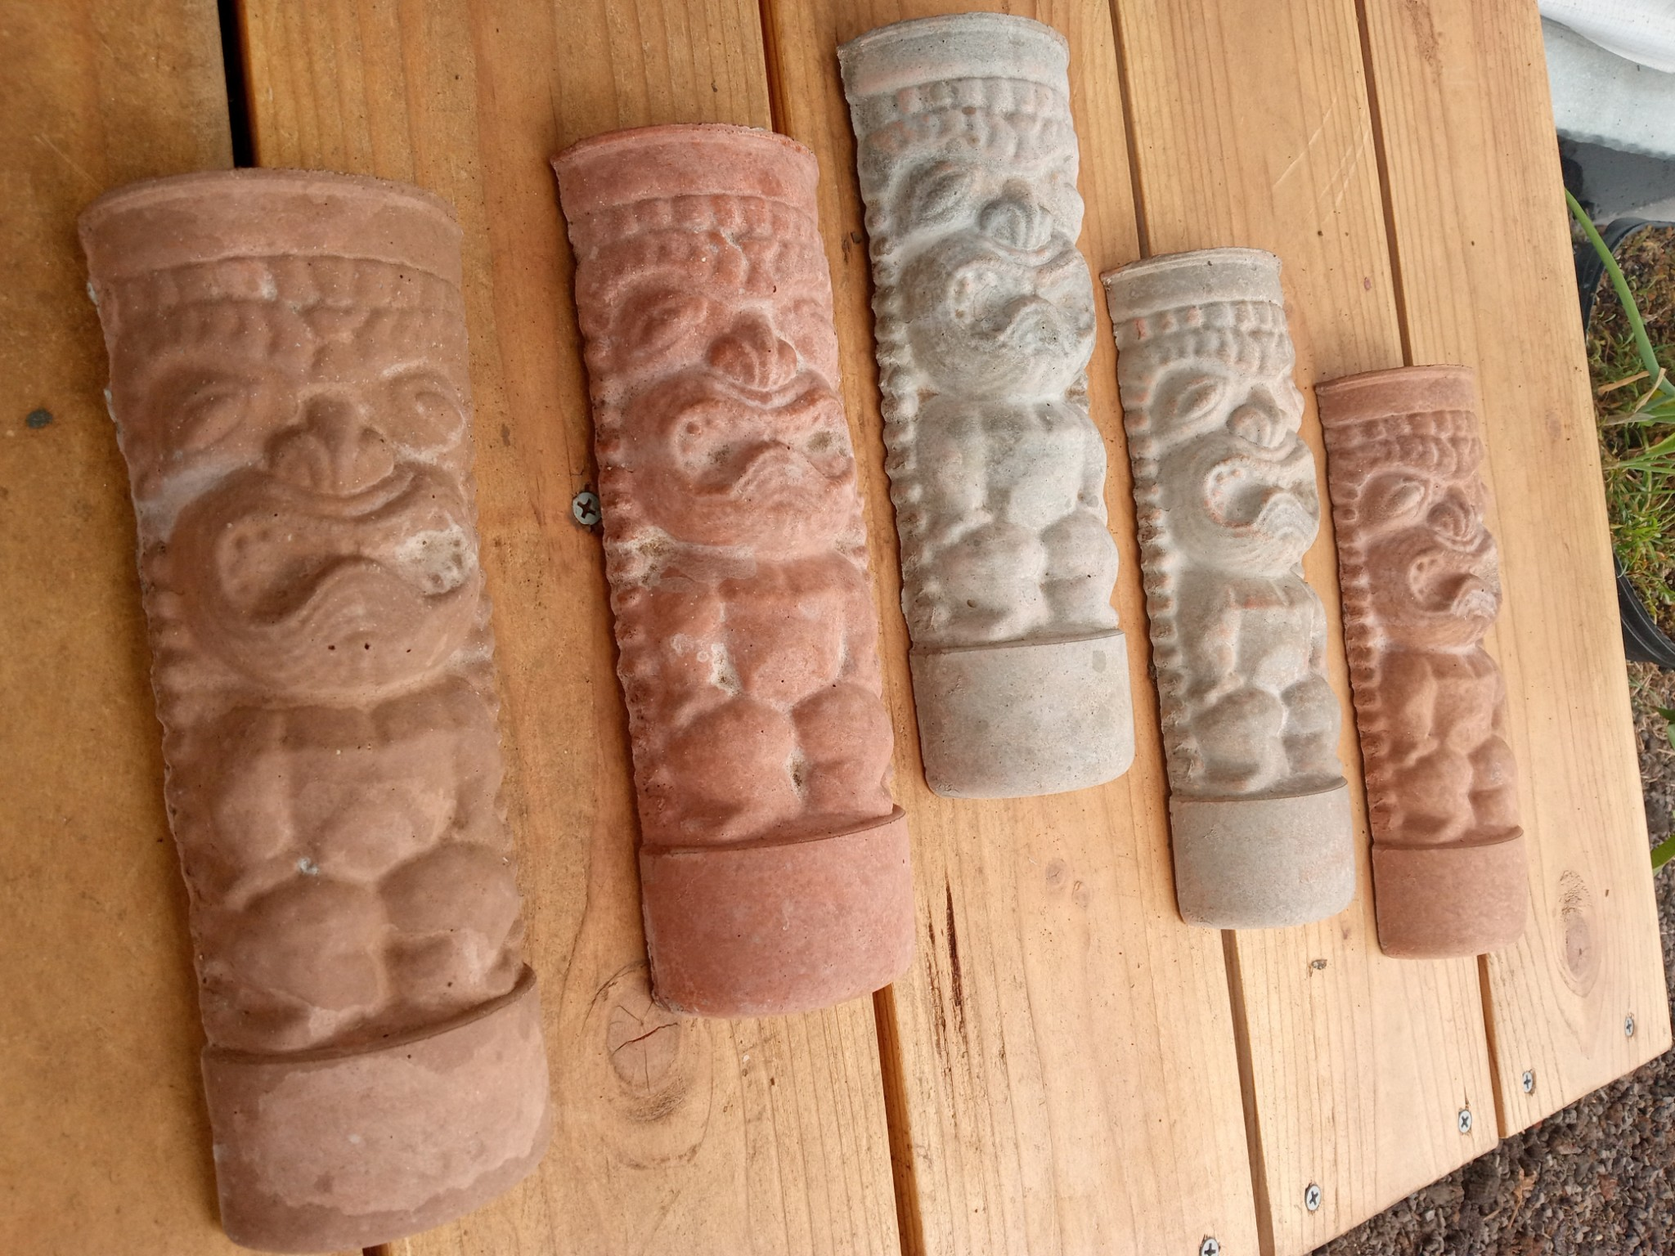
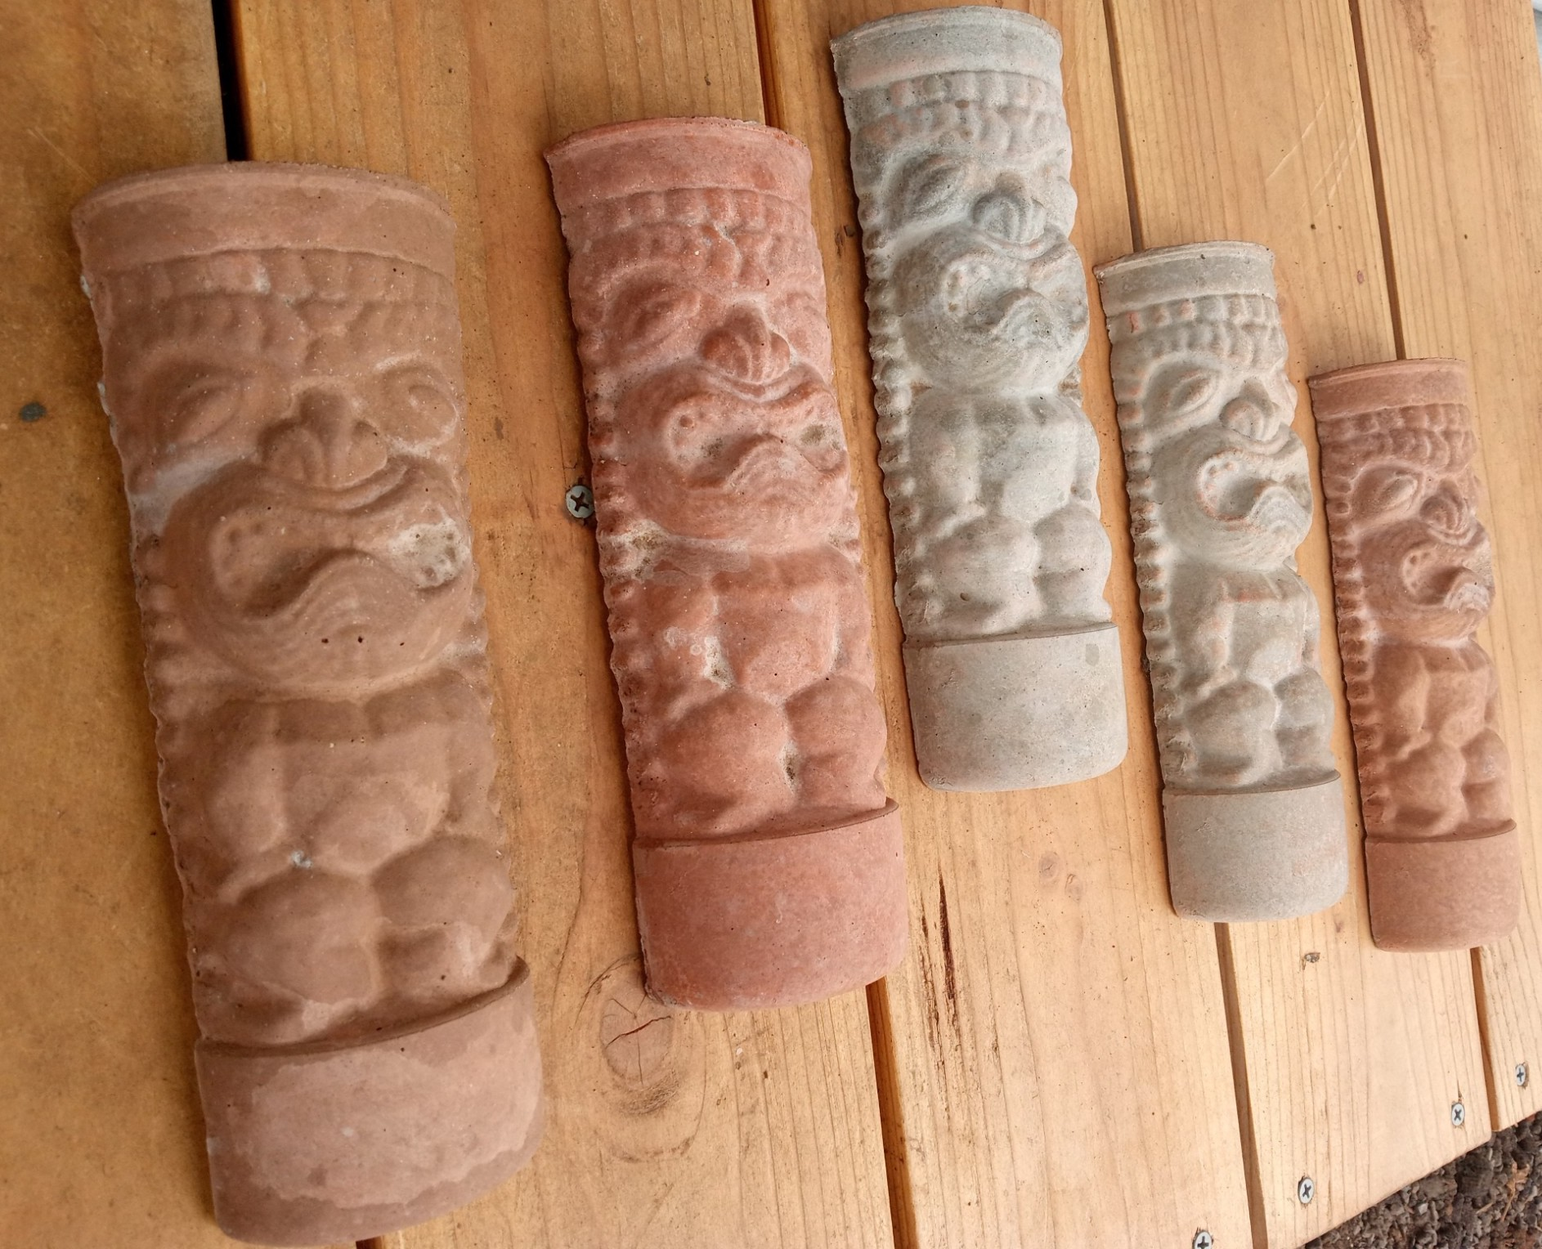
Added new pagesto the wallhanging section

diff --git a/PAGES/ulua-md-wallhang.html b/PAGES/ulua-md-wallhang.html
@@ -3,7 +3,7 @@
     <head>
         <meta name="viewport" width="device-width, initial-scale=1.0">
         <meta charset="utf-8">
-        <title>Pineapple Painted Wallhanging</title>
+        <title>Ulua Fish 21 Inch Metal Wallhang</title>
         <link rel="icon" href="/IMAGES/logos/kt-hibiscus-pink-sm.png" type="image/icon type">
         <link rel="stylesheet" href="/STYLES/styles.css">
         <link rel="preconnect" href="https://fonts.googleapis.com">
@@ -30,45 +30,52 @@
             <a href="faq.html">FAQ</a>
         </div>
         <main>
-            <h1>PINEAPPLE PAINT WALLHANG</h1>
+            <h1>ULUA FISH 21 INCH METAL WALLHANG</h1>
                 <div class="zoomed">
                     <!-- 1st image -->
                     <input type="checkbox" id="zoom-1">
-                    <label for="zoom-1"><img class="main-prod-img" src="/IMAGES/wall-hangings/pine-paint1.jpeg" alt="Click to zoom"></label>
+                    <label for="zoom-1"><img class="main-prod-img" src="/IMAGES/wall-hangings/ulua2.jpg" alt="Click to zoom"></label>
                 </div>
                 <div class="zoomed">
                     <!-- 2nd image -->
                     <input type="checkbox" id="zoom-2">
-                    <label for="zoom-2"><img class="main-prod-img" src="/IMAGES/wall-hangings/pine-paint2.jpeg" alt="Click to zoom"></label>
+                    <label for="zoom-2"><img class="main-prod-img" src="/IMAGES/wall-hangings/ulua12.jpeg" alt="Click to zoom"></label>
                 </div>
                 <div class="zoomed">
                     <!-- 3rd image -->
                     <input type="checkbox" id="zoom-3">
-                    <label for="zoom-3"><img class="main-prod-img" src="/IMAGES/wall-hangings/pine-paint3.jpeg" alt="Click to zoom"></label>
+                    <label for="zoom-3"><img class="main-prod-img" src="/IMAGES/wall-hangings/ulua11.jpg" alt="Click to zoom"></label>
                 </div>   
                 <div class="zoomed">
                     <!-- 4th image -->
                     <input type="checkbox" id="zoom-4">
-                    <label for="zoom-4"><img class="main-prod-img" src="/IMAGES/wall-hangings/pine-paint5.jpeg" alt="Click to zoom"></label>
+                    <label for="zoom-4"><img class="main-prod-img" src="/IMAGES/wall-hangings/ulua10.jpg" alt="Click to zoom"></label>
                 </div>
                 <div class="zoomed">
                     <!-- 5th image -->
                     <input type="checkbox" id="zoom-5">
-                    <label for="zoom-5"><img class="main-prod-img" src="/IMAGES/wall-hangings/pine-paint6.jpeg" alt="Click to zoom"></label>
+                    <label for="zoom-5"><img class="main-prod-img" src="/IMAGES/wall-hangings/ulua7.jpg" alt="Click to zoom"></label>
                 </div>
+                <div class="zoomed">
+                    <!-- 6th image -->
+                    <input type="checkbox" id="zoom-6">
+                    <label for="zoom-6"><img class="main-prod-img" src="/IMAGES/wall-hangings/ulua3.jpg" alt="Click to zoom"></label>
+                </div>  
 
             <p class="item-info">
-                PINEAPPLE DISCRIPTION: The Pineapple Painted Wallhanging is a vintage inspired piece that captures the timeless essence of
-                1950's Hawaii. This specific art piece has been quite popular with our Kona customers - especially with customers that want to showcase a retro 
-                Hawaiian theme in their home and garden. It has an embedded metal wallhanger located on the back of the Pineapple. Enjoy 
-                this fun and bright way to bring Hawaii into your space.
+                ULUA DISCRIPTION: This Ulua Fish Metal Wallhanging measures 21 inches from head to tail tip and 10.5 inches wide from soft dorsal fin 
+                to the anal fin. This art piece is designed with the local fisherman in mind. The thrill of catching huge ulua - also called giant trevally - is such a rush that 
+                the fishermen climb out onto precarious, dangerous cliffs in order to cast their lines into the deep. The ocean crashes 
+                in huge waves against the cliffside, and these gigantic fish swim through the waves, speeding by to catch their own dinner.
+                This wallhanging has 2 holes available for the customer to place 2 screws for mounting, one located on the soft dorsal fin 
+                (largest fin on top) and one located on the pelvic fin (smaller front fin on bottom).
                  <br><br>
                  THIS WALLHANGING IS HAND PAINTED AND SEALED WITH A WEATHERPROOFING SEALANT COAT
             </p>
-            <p class="item-dimensions">PINEAPPLE DIMENSIONS:<br>6 INCHES LONG<br>4 INCHES WIDE<br>3 INCHES THICK</p>
+            <p class="item-dimensions">ULUA DIMENSIONS:<br>21 INCHES LONG<br>10.5 INCHES WIDE<br></p>
             <p class="important-banner">IMPORTANT: REFERENCE A TAPE MEASURE OR RULER TO CONFIRM SIZE BEFORE CALLING TO PLACE AN ORDER</p><br><br>
             
-            <p class="main-item-price">PINEAPPLE PRICE: $30</p>
+            <p class="main-item-price">ULUA PRICE: $100</p>
 
             
             </main>

diff --git a/PAGES/tiki-concrete-wallhang.html b/PAGES/tiki-concrete-wallhang.html
@@ -3,7 +3,7 @@
     <head>
         <meta name="viewport" width="device-width, initial-scale=1.0">
         <meta charset="utf-8">
-        <title>Pineapple Painted Wallhanging</title>
+        <title>Tiki Concrete Wallhanging</title>
         <link rel="icon" href="/IMAGES/logos/kt-hibiscus-pink-sm.png" type="image/icon type">
         <link rel="stylesheet" href="/STYLES/styles.css">
         <link rel="preconnect" href="https://fonts.googleapis.com">
@@ -30,45 +30,39 @@
             <a href="faq.html">FAQ</a>
         </div>
         <main>
-            <h1>PINEAPPLE PAINT WALLHANG</h1>
+            <h1>TIKI CONCRETE WALLHANG</h1>
                 <div class="zoomed">
                     <!-- 1st image -->
                     <input type="checkbox" id="zoom-1">
-                    <label for="zoom-1"><img class="main-prod-img" src="/IMAGES/wall-hangings/pine-paint1.jpeg" alt="Click to zoom"></label>
+                    <label for="zoom-1"><img class="main-prod-img" src="/IMAGES/wall-hangings/flatback4.jpg" alt="Click to zoom"></label>
                 </div>
                 <div class="zoomed">
                     <!-- 2nd image -->
                     <input type="checkbox" id="zoom-2">
-                    <label for="zoom-2"><img class="main-prod-img" src="/IMAGES/wall-hangings/pine-paint2.jpeg" alt="Click to zoom"></label>
+                    <label for="zoom-2"><img class="main-prod-img" src="/IMAGES/wall-hangings/flatback2.jpg" alt="Click to zoom"></label>
                 </div>
                 <div class="zoomed">
                     <!-- 3rd image -->
                     <input type="checkbox" id="zoom-3">
-                    <label for="zoom-3"><img class="main-prod-img" src="/IMAGES/wall-hangings/pine-paint3.jpeg" alt="Click to zoom"></label>
+                    <label for="zoom-3"><img class="main-prod-img" src="/IMAGES/wall-hangings/flatback5.jpg" alt="Click to zoom"></label>
                 </div>   
                 <div class="zoomed">
                     <!-- 4th image -->
                     <input type="checkbox" id="zoom-4">
-                    <label for="zoom-4"><img class="main-prod-img" src="/IMAGES/wall-hangings/pine-paint5.jpeg" alt="Click to zoom"></label>
-                </div>
-                <div class="zoomed">
-                    <!-- 5th image -->
-                    <input type="checkbox" id="zoom-5">
-                    <label for="zoom-5"><img class="main-prod-img" src="/IMAGES/wall-hangings/pine-paint6.jpeg" alt="Click to zoom"></label>
+                    <label for="zoom-4"><img class="main-prod-img" src="/IMAGES/wall-hangings/flatback3.jpg" alt="Click to zoom"></label>
                 </div>
 
             <p class="item-info">
-                PINEAPPLE DISCRIPTION: The Pineapple Painted Wallhanging is a vintage inspired piece that captures the timeless essence of
-                1950's Hawaii. This specific art piece has been quite popular with our Kona customers - especially with customers that want to showcase a retro 
-                Hawaiian theme in their home and garden. It has an embedded metal wallhanger located on the back of the Pineapple. Enjoy 
-                this fun and bright way to bring Hawaii into your space.
+                TIKI DISCRIPTION: This Tiki Concrete Wallhang will capture anyones attention in your home or garden with a timeless yet simple 
+                design that showcases the vintage vibe of the Hawaiian Islands. This piece features a classic look that every tiki lover will 
+                enjoy, and has an embedded metal wall hanger on the back. Make this tiki a centerpiece in your tropical gardenscape today. 
                  <br><br>
-                 THIS WALLHANGING IS HAND PAINTED AND SEALED WITH A WEATHERPROOFING SEALANT COAT
+                 OPTIONAL: FREE WEATHERPROOFING SEALANT COAT (IF YOU WANT TO PAINT THE STATUE YOURSELF, DO NOT GET THE WEATHERCOATING)
             </p>
-            <p class="item-dimensions">PINEAPPLE DIMENSIONS:<br>6 INCHES LONG<br>4 INCHES WIDE<br>3 INCHES THICK</p>
+            <p class="item-dimensions">TIKI DIMENSIONS:<br>8.25 INCHES LONG<br>2.75 INCHES WIDE<br></p>
             <p class="important-banner">IMPORTANT: REFERENCE A TAPE MEASURE OR RULER TO CONFIRM SIZE BEFORE CALLING TO PLACE AN ORDER</p><br><br>
             
-            <p class="main-item-price">PINEAPPLE PRICE: $30</p>
+            <p class="main-item-price">TIKI PRICE: $20</p>
 
             
             </main>

diff --git a/PAGES/tiki-stained-wallhang.html b/PAGES/tiki-stained-wallhang.html
@@ -3,7 +3,7 @@
     <head>
         <meta name="viewport" width="device-width, initial-scale=1.0">
         <meta charset="utf-8">
-        <title>Pineapple Painted Wallhanging</title>
+        <title>Tiki Stained Wallhanging</title>
         <link rel="icon" href="/IMAGES/logos/kt-hibiscus-pink-sm.png" type="image/icon type">
         <link rel="stylesheet" href="/STYLES/styles.css">
         <link rel="preconnect" href="https://fonts.googleapis.com">
@@ -30,45 +30,39 @@
             <a href="faq.html">FAQ</a>
         </div>
         <main>
-            <h1>PINEAPPLE PAINT WALLHANG</h1>
+            <h1>TIKI STAINED WALLHANG</h1>
                 <div class="zoomed">
                     <!-- 1st image -->
                     <input type="checkbox" id="zoom-1">
-                    <label for="zoom-1"><img class="main-prod-img" src="/IMAGES/wall-hangings/pine-paint1.jpeg" alt="Click to zoom"></label>
+                    <label for="zoom-1"><img class="main-prod-img" src="/IMAGES/wall-hangings/flatback-row1.jpg" alt="Click to zoom"></label>
                 </div>
                 <div class="zoomed">
                     <!-- 2nd image -->
                     <input type="checkbox" id="zoom-2">
-                    <label for="zoom-2"><img class="main-prod-img" src="/IMAGES/wall-hangings/pine-paint2.jpeg" alt="Click to zoom"></label>
+                    <label for="zoom-2"><img class="main-prod-img" src="/IMAGES/wall-hangings/flatback-row2.jpg" alt="Click to zoom"></label>
                 </div>
                 <div class="zoomed">
                     <!-- 3rd image -->
                     <input type="checkbox" id="zoom-3">
-                    <label for="zoom-3"><img class="main-prod-img" src="/IMAGES/wall-hangings/pine-paint3.jpeg" alt="Click to zoom"></label>
+                    <label for="zoom-3"><img class="main-prod-img" src="/IMAGES/wall-hangings/flatback-row3.jpg" alt="Click to zoom"></label>
                 </div>   
                 <div class="zoomed">
                     <!-- 4th image -->
                     <input type="checkbox" id="zoom-4">
-                    <label for="zoom-4"><img class="main-prod-img" src="/IMAGES/wall-hangings/pine-paint5.jpeg" alt="Click to zoom"></label>
-                </div>
-                <div class="zoomed">
-                    <!-- 5th image -->
-                    <input type="checkbox" id="zoom-5">
-                    <label for="zoom-5"><img class="main-prod-img" src="/IMAGES/wall-hangings/pine-paint6.jpeg" alt="Click to zoom"></label>
+                    <label for="zoom-4"><img class="main-prod-img" src="/IMAGES/wall-hangings/flatback-row4.jpg" alt="Click to zoom"></label>
                 </div>
 
             <p class="item-info">
-                PINEAPPLE DISCRIPTION: The Pineapple Painted Wallhanging is a vintage inspired piece that captures the timeless essence of
-                1950's Hawaii. This specific art piece has been quite popular with our Kona customers - especially with customers that want to showcase a retro 
-                Hawaiian theme in their home and garden. It has an embedded metal wallhanger located on the back of the Pineapple. Enjoy 
-                this fun and bright way to bring Hawaii into your space.
+                TIKI DISCRIPTION: This Tiki Stained Wallhang will capture anyones attention in your home or garden with a timeless yet simple 
+                design that showcases the vintage vibe of the Hawaiian Islands. This piece features a variety of colors and classic look that every tiki lover will 
+                enjoy. It has an embedded metal wall hanger on the back. Make this tiki a centerpiece in your tropical gardenscape today. 
                  <br><br>
                  THIS WALLHANGING IS HAND PAINTED AND SEALED WITH A WEATHERPROOFING SEALANT COAT
             </p>
-            <p class="item-dimensions">PINEAPPLE DIMENSIONS:<br>6 INCHES LONG<br>4 INCHES WIDE<br>3 INCHES THICK</p>
+            <p class="item-dimensions">TIKI DIMENSIONS:<br>8.25 INCHES LONG<br>2.75 INCHES WIDE<br></p>
             <p class="important-banner">IMPORTANT: REFERENCE A TAPE MEASURE OR RULER TO CONFIRM SIZE BEFORE CALLING TO PLACE AN ORDER</p><br><br>
             
-            <p class="main-item-price">PINEAPPLE PRICE: $30</p>
+            <p class="main-item-price">TIKI PRICE: $30</p>
 
             
             </main>

diff --git a/PAGES/wallhangings.html b/PAGES/wallhangings.html
@@ -42,37 +42,37 @@
         <div class="item-for-sale-div">
             <a href="pinehang-paint.html"><div class="item-pic-div"><img class="item-picture" alt="Painted Pineapple Wall Hanger" src="/IMAGES/wall-hangings/pine-paint1.jpeg"></div></a>
             <a href="pinehang-paint.html"><p class="item-name">PINEAPPLE PAINT WALLHANG</p></a>
-            <a href="pinehang-paint.html"><p class="item-price">$20</p></a>
+            <a href="pinehang-paint.html"><p class="item-price">$30</p></a>
         </div>
         <!-- PINEAPPLE WALLHANGING BARE -->
         <div class="item-for-sale-div">
             <a href="pinehang.html"><div class="item-pic-div"><img class="item-picture" alt="Bare Pineapple Wall Hanger" src="/IMAGES/wall-hangings/pine1.jpg"></div></a>
             <a href="pinehang.html"><p class="item-name">PINEAPPLE BARE WALLHANG</p></a>
-            <a href="pinehang.html"><p class="item-price">$15</p></a>
+            <a href="pinehang.html"><p class="item-price">$20</p></a>
         </div>
         <!-- TIKI WALLHANGING BARE -->
         <div class="item-for-sale-div">
-            <a href="tiki-wallhang-concrete.html"><div class="item-pic-div"><img class="item-picture" alt="Tiki Wallhanging Bare" src="/IMAGES/wall-hangings/flatback2.jpg"></div></a>
-            <a href="tiki-wallhang-concrete.html"><p class="item-name">TIKI BARE WALLHANG</p></a>
-            <a href="tiki-wallhang-concrete.html"><p class="item-price">$15</p></a>
+            <a href="tiki-concrete-wallhang.html"><div class="item-pic-div"><img class="item-picture" alt="Tiki Wallhanging Bare" src="/IMAGES/wall-hangings/flatback2.jpg"></div></a>
+            <a href="tiki-concrete-wallhang.html"><p class="item-name">TIKI BARE WALLHANG</p></a>
+            <a href="tiki-concrete-wallhang.html"><p class="item-price">$20</p></a>
         </div>
         <!-- TIKI WALLHANGING STAINED -->
         <div class="item-for-sale-div">
-            <a href="tiki-wallhang-concrete.html"><div class="item-pic-div"><img class="item-picture" alt="Tiki Wallhanging Stained" src="/IMAGES/wall-hangings/flatback-row4.jpg"></div></a>
-            <a href="tiki-wallhang-concrete.html"><p class="item-name">TIKI STAINED WALLHANG</p></a>
-            <a href="tiki-wallhang-concrete.html"><p class="item-price">$20</p></a>
+            <a href="tiki-stained-wallhang.html"><div class="item-pic-div"><img class="item-picture" alt="Tiki Wallhanging Stained" src="/IMAGES/wall-hangings/flatback-row4.jpg"></div></a>
+            <a href="tiki-stained-wallhang.html"><p class="item-name">TIKI STAINED WALLHANG</p></a>
+            <a href="tiki-stained-wallhang.html"><p class="item-price">$30</p></a>
         </div>
         <!-- ULUA FISH MEDIUM -->
         <div class="item-for-sale-div">
-            <a href="ulua-wallhang.html"><div class="item-pic-div"><img class="item-picture" alt="Ulua Fish Metal Wallhanging" src="/IMAGES/wall-hangings/ulua10.jpg"></div></a>
-            <a href="ulua-wallhang.html"><p class="item-name">ULUA 21" METAL WALLHANG MED</p></a>
-            <a href="ulua-wallhang.html"><p class="item-price">$100</p></a>
+            <a href="ulua-md-wallhang.html"><div class="item-pic-div"><img class="item-picture" alt="Ulua Fish Metal Wallhanging" src="/IMAGES/wall-hangings/ulua10.jpg"></div></a>
+            <a href="ulua-md-wallhang.html"><p class="item-name">ULUA 21" METAL WALLHANG MED</p></a>
+            <a href="ulua-md-wallhang.html"><p class="item-price">$100</p></a>
         </div>
         <!-- ULUA FISH LARGE -->
         <div class="item-for-sale-div">
-            <a href="ulua-wallhang.html"><div class="item-pic-div"><img class="item-picture" alt="Ulua Fish Metal Wallhanging" src="/IMAGES/wall-hangings/ulua-lg1.jpg"></div></a>
-            <a href="ulua-wallhang.html"><p class="item-name">ULUA 30" METAL WALLHANG LG</p></a>
-            <a href="ulua-wallhang.html"><p class="item-price">$200</p></a>
+            <a href="ulua-lg-wallhang.html"><div class="item-pic-div"><img class="item-picture" alt="Ulua Fish Metal Wallhanging" src="/IMAGES/wall-hangings/ulua-lg1.jpg"></div></a>
+            <a href="ulua-lg-wallhang.html"><p class="item-name">ULUA 30" METAL WALLHANG LG</p></a>
+            <a href="ulua-lg-wallhang.html"><p class="item-price">$200</p></a>
         </div>
         <!-- SUN FACE WALLHANGING -->
         <div class="item-for-sale-div">

diff --git a/PAGES/pinehang.html b/PAGES/pinehang.html
@@ -1,0 +1,64 @@
+<!DOCTYPE html>
+<html lang="en">
+    <head>
+        <meta name="viewport" width="device-width, initial-scale=1.0">
+        <meta charset="utf-8">
+        <title>Pineapple Wallhanging</title>
+        <link rel="icon" href="/IMAGES/logos/kt-hibiscus-pink-sm.png" type="image/icon type">
+        <link rel="stylesheet" href="/STYLES/styles.css">
+        <link rel="preconnect" href="https://fonts.googleapis.com">
+        <link rel="preconnect" href="https://fonts.gstatic.com" crossorigin>
+        <link href="https://fonts.googleapis.com/css2?family=Noto+Sans&family=Boogaloo&family=Slackey&family=Trade+Winds&display=swap" rel="stylesheet">
+    </head>
+    <body>
+         <header> 
+            <a href="index.html"> 
+                <img class="main-logo" 
+                src="/IMAGES/logos/kt_logo_transparent.png" 
+                alt="Ka'u Tikis logo with a concrete tiki and three hibiscus flowers"
+                title="Ka'u Tikis main logo"></a>
+                <div class="order-banner">Order at (808)-284-6606</div>
+        </header>
+        <div class="navbar">
+            <a href="index.html">HOME</a>
+            <a href="tikis.html">TIKIS</a>
+            <a href="statues.html">GARDEN STATUES</a>
+            <a href="stepstones.html">STEPPING STONES</a>
+            <a href="wallhangings.html">WALLHANGINGS</a>
+            <a href="misc.html">MISC</a>
+            <a href="about.html">ABOUT</a>
+            <a href="faq.html">FAQ</a>
+        </div>
+        <main>
+            <h1>PINEAPPLE WALLHANG</h1>
+                <div class="zoomed">
+                    <!-- 1st image -->
+                    <input type="checkbox" id="zoom-1">
+                    <label for="zoom-1"><img class="main-prod-img" src="/IMAGES/wall-hangings/pine1.jpg" alt="Click to zoom"></label>
+                </div>
+                <div class="zoomed">
+                    <!-- 2nd image -->
+                    <input type="checkbox" id="zoom-2">
+                    <label for="zoom-2"><img class="main-prod-img" src="/IMAGES/wall-hangings/pine2.jpg" alt="Click to zoom"></label>
+                </div>
+
+            <p class="item-info">
+                PINEAPPLE DISCRIPTION: The Pineapple Wallhanging is a vintage inspired piece that captures the timeless essence of
+                1950's Hawaii. This specific art piece has been quite popular with our Hilo customers - especially with customers that want to showcase a retro 
+                Hawaiian theme in their home and garden. It has an embedded metal wallhanger located on the back of the Pineapple. Enjoy 
+                this nostalgic way to bring Hawaii into your space.
+                 <br><br>
+                 OPTIONAL: FREE WEATHERPROOFING SEALANT COAT (IF YOU WANT TO PAINT THE STATUE YOURSELF, DO NOT GET THE WEATHERCOATING)
+            </p>
+            <p class="item-dimensions">PINEAPPLE DIMENSIONS:<br>6 INCHES LONG<br>4 INCHES WIDE<br>3 INCHES THICK</p>
+            <p class="important-banner">IMPORTANT: REFERENCE A TAPE MEASURE OR RULER TO CONFIRM SIZE BEFORE CALLING TO PLACE AN ORDER</p><br><br>
+            
+            <p class="main-item-price">PINEAPPLE PRICE: $20</p>
+
+            
+            </main>
+        <footer>
+            <div>KA'U TIKIS &copy; 2026</div>
+        </footer>
+    </body>
+</html>
